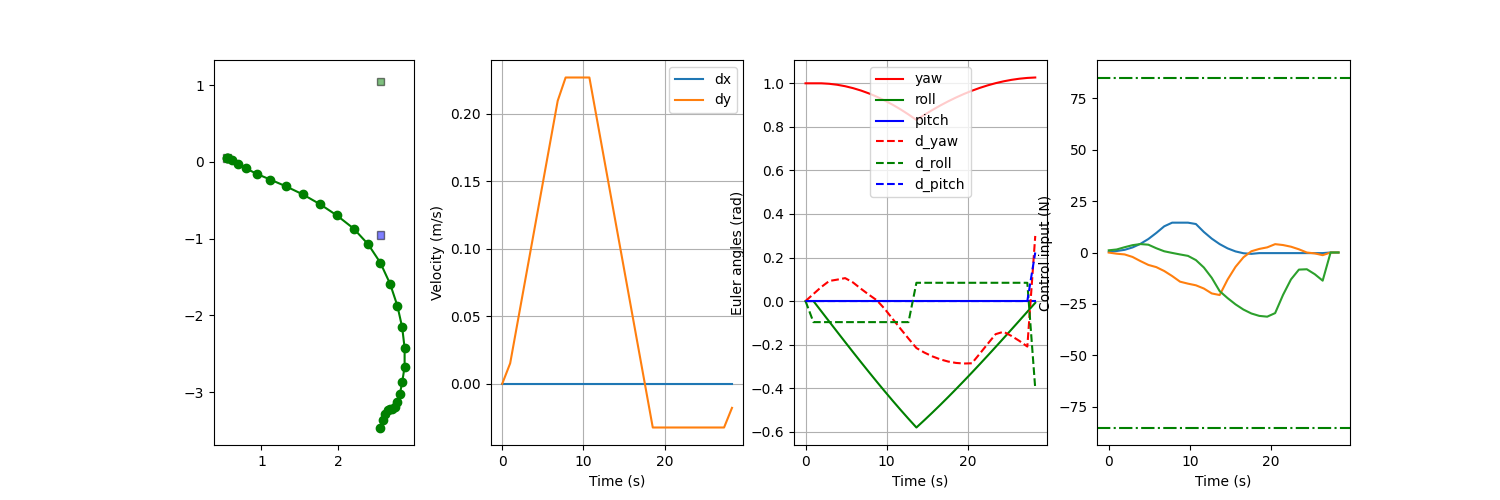
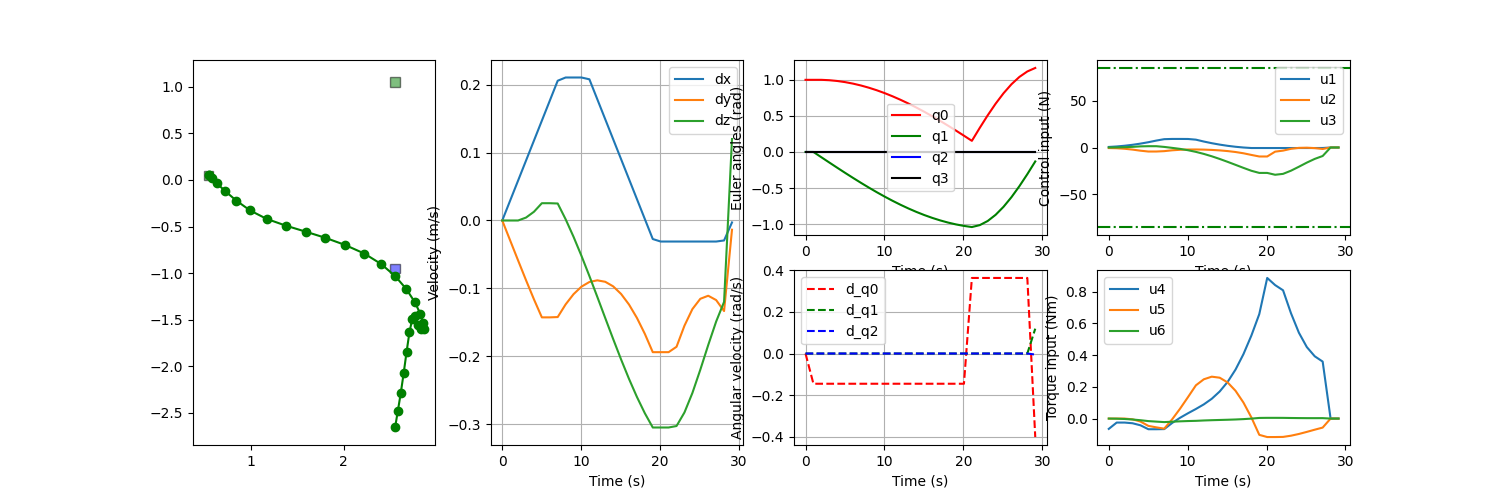
added example to check state equality from linear FF to nonlinear FF

diff --git a/stl_mapping/Utilities/plotting.py b/stl_mapping/Utilities/plotting.py
@@ -1,46 +1,94 @@
 import numpy as np
 import matplotlib.pyplot as plt
+from Utilities.rotations import quat_to_euler_np, euler_to_quat_np
 
-def plot_planning_results(robot, t, x, u, X0, Xf, ROIs, Obs, alpha=1.0,
+def plot_planning_results(robot, t, x, u, 
+                          X0=None, Xf=None, ROIs=None, Obs=None, alpha=1.0,
+                          in_axs = None, plot=True,
                           path="stl_mapping/Planning/figures/sp_trajectory.png"):
+    if x.shape[1] == 12:
+        p, e, v, w = x[:, 0:3], x[:, 3:6], x[:, 6:9], x[:, 9:12]
+        q = np.zeros((x.shape[0], 4))
+        for i in range(x.shape[0]):
+            q[i, :] = euler_to_quat_np(e[i, :], order='zyx')
+        x = np.hstack((p, q, v, w))
+        print(f"Converted state representation:\n{x}")
+    elif x.shape[1] == 13:
+        p, q, v, w = x[:, 0:3], x[:, 3:7], x[:, 7:10], x[:, 10:13]
+    else:
+        raise ValueError("State vector x must have 12 or 13 columns.")
+    
+
     # plot the trajectory
-    fig, axs = plt.subplots(1,4, figsize=(15, 5))
-    axs[0].plot(x[:, 0], x[:, 1], 'g-')
-    axs[0].plot(x[:, 0], x[:, 1], 'go')
-    X0.plot(axs[0], color='green', alpha=0.5)
-    Xf.plot(axs[0], color='green', alpha=0.5)
-    [roi.plot(axs[0], color='blue', alpha=0.5) for roi in ROIs]
-    [obs.plot(axs[0], color='red', alpha=0.5) for obs in Obs]
-    axs[0].set_aspect('equal', adjustable='box')
+    if in_axs is None:
+        fig = plt.figure(figsize=(15, 5))
+        gs = fig.add_gridspec(2,4, figure=fig)
+        ax_p = fig.add_subplot(gs[:,0])
+        ax_v = fig.add_subplot(gs[:,1])
+        ax_q = fig.add_subplot(gs[0,2])
+        ax_w = fig.add_subplot(gs[1,2])
+        ax_f = fig.add_subplot(gs[0,3])
+        ax_t = fig.add_subplot(gs[1,3])
+    else: 
+        ax_p, ax_v, ax_q, ax_w, ax_f, ax_t = in_axs
 
-    axs[1].plot(t, x[:, 6], label='dx')
-    axs[1].plot(t, x[:, 7], label='dy')
-    axs[1].set_xlabel('Time (s)')
-    axs[1].set_ylabel('Velocity (m/s)')
-    axs[1].legend()
-    axs[1].grid()
+    ax_p.plot(p[:, 0], p[:, 1], 'g-')
+    ax_p.plot(p[:, 0], p[:, 1], 'go')
+    if X0 is not None:
+        X0.plot(ax_p, color='green', alpha=0.5)
+    if Xf is not None:
+        Xf.plot(ax_p, color='green', alpha=0.5)
+    if ROIs is not None:
+        [roi.plot(ax_p, color='blue', alpha=0.5) for roi in ROIs]
+    if Obs is not None:
+        [obs.plot(ax_p, color='red', alpha=0.5) for obs in Obs]
+    ax_p.set_aspect('equal', adjustable='box')
 
-    axs[2].plot(t, x[:, 3], 'r', label='yaw')
-    axs[2].plot(t, x[:, 4], 'g', label='roll')
-    axs[2].plot(t, x[:, 5], 'b', label='pitch')
-    axs[2].plot(t, x[:, 9], 'r--', label='d_yaw')
-    axs[2].plot(t, x[:, 10], 'g--', label='d_roll')
-    axs[2].plot(t, x[:, 11], 'b--', label='d_pitch')
-    axs[2].set_xlabel('Time (s)')
-    axs[2].set_ylabel('Euler angles (rad)')
-    axs[2].legend()
-    axs[2].grid()
+    ax_v.plot(t, v[:, 0], label='dx')
+    ax_v.plot(t, v[:, 1], label='dy')
+    ax_v.plot(t, v[:, 2], label='dz')
+    ax_v.set_xlabel('Time (s)')
+    ax_v.set_ylabel('Velocity (m/s)')
+    ax_v.legend()
+    ax_v.grid()
 
-    axs[3].plot(t, u[:,0])
-    axs[3].plot(t, u[:,1])
-    axs[3].plot(t, u[:,2])
-    axs[3].axhline(robot.U.lower_bounds[0], color='g', linestyle='-.', label="U_lb")
-    axs[3].axhline(robot.U.upper_bounds[0], color='g', linestyle='-.')
+    ax_q.plot(t, q[:, 0], 'r', label='q0')
+    ax_q.plot(t, q[:, 1], 'g', label='q1')
+    ax_q.plot(t, q[:, 2], 'b', label='q2')
+    ax_q.plot(t, q[:, 3], 'k', label='q3')
+    ax_q.set_xlabel('Time (s)')
+    ax_q.set_ylabel('Euler angles (rad)')
+    ax_q.legend()
+    ax_q.grid()
+
+    ax_w.plot(t, w[:, 0], 'r--', label='d_q0')
+    ax_w.plot(t, w[:, 1], 'g--', label='d_q1')
+    ax_w.plot(t, w[:, 2], 'b--', label='d_q2')
+    ax_w.set_xlabel('Time (s)')
+    ax_w.set_ylabel('Angular velocity (rad/s)')
+    ax_w.legend()
+    ax_w.grid()
+
+    ax_f.plot(t[:u.shape[0]], u[:,0], label='u1')
+    ax_f.plot(t[:u.shape[0]], u[:,1], label='u2')
+    ax_f.plot(t[:u.shape[0]], u[:,2], label='u3')
+    ax_f.axhline(robot.U.lower_bounds[0], color='g', linestyle='-.')#, label="U_lb")
+    ax_f.axhline(robot.U.upper_bounds[0], color='g', linestyle='-.')
     if hasattr(robot, 'U_effective'):
-        axs[3].axhline(alpha*robot.U_effective.lower_bounds[0], color='b', linestyle='--', label="alpha*U_effective_lb")
-        axs[3].axhline(alpha*robot.U_effective.upper_bounds[0], color='b', linestyle='--')
-        axs[3].axhline(robot.U_effective.lower_bounds[0], color='r', linestyle=':', label="U_effective_lb")
-        axs[3].axhline(robot.U_effective.upper_bounds[0], color='r', linestyle=':')
-    axs[3].set_xlabel('Time (s)')
-    axs[3].set_ylabel('Control input (N)')
-    plt.savefig(path)
+        ax_f.axhline(alpha*robot.U_effective.lower_bounds[0], color='b', linestyle='--')#, label="alpha*U_effective_lb")
+        ax_f.axhline(alpha*robot.U_effective.upper_bounds[0], color='b', linestyle='--')
+        ax_f.axhline(robot.U_effective.lower_bounds[0], color='r', linestyle=':')#, label="U_effective_lb")
+        ax_f.axhline(robot.U_effective.upper_bounds[0], color='r', linestyle=':')
+    ax_f.set_xlabel('Time (s)')
+    ax_f.set_ylabel('Control input (N)')
+    ax_f.legend()
+
+    ax_t.plot(t[:u.shape[0]], u[:,3], label='u4')
+    ax_t.plot(t[:u.shape[0]], u[:,4], label='u5')
+    ax_t.plot(t[:u.shape[0]], u[:,5], label='u6')
+    ax_t.set_xlabel('Time (s)')
+    ax_t.set_ylabel('Torque input (Nm)')
+    ax_t.legend()
+
+    if plot:
+        plt.savefig(path)

diff --git a/stl_mapping/Planning/main.py b/stl_mapping/Planning/main.py
@@ -16,7 +16,7 @@ sys.path.insert(0, parent_dir)
 from Utilities.Robots import FreeFlyer, LinearFreeFlyer6DoF
 from Utilities.sets import HyperRectangle, Polytope
 from Utilities.rotations import quat_to_euler_np, quat_to_euler_cs, euler_to_quat_np, euler_to_quat_cs
-from Utilities.rotations import quat_x_to_euler_x_cs, euler_x_to_quat_x_cs, quat_x_to_euler_x_np, euler_x_to_quat_x_np
+from Utilities.rotations import quat_x_to_euler_x_np, euler_x_to_quat_x_np
 from Utilities.rotations import enu_to_ned, ned_to_enu, u_enu_to_ned, enu_to_flu
 from Utilities.stl import Pred, Spec, quant_parse_operator, OptProbItems
 from Utilities.plotting import plot_planning_results
@@ -46,7 +46,7 @@ World = HyperRectangle(np.array([0, -1.5, -10, -10]), np.array([4, 1.5, 10, 10])
 phi = Pred("AND", preds=[
     Pred("G", [t0,t0], preds=[Pred("MU", preds=[Polytope(X0)], dims=[0,1,2])]),
     Pred("G", [tf,tf], preds=[Pred("MU", preds=[Polytope(Xf)], dims=[0,1,2])]),
-    Pred("F", [t0,tf], preds=[Pred("MU", preds=[Polytope(XA)], dims=[0,1,2,3])]),
+    Pred("F", [t0,tf], preds=[Pred("MU", preds=[Polytope(XA)], dims=[0,1,2, 3])]),
     Pred("G", [t0,tf], preds=[Pred("MU", preds=[Polytope(World)], dims=[0,1,6,7])]),
 ])
 spec = Spec(phi, t0, tf)
@@ -55,19 +55,20 @@ spec = Spec(phi, t0, tf)
 if True:
     opt = gp.Model("prob1")
     x_vars = opt.addMVar((N, sp_robot.n_x), lb=-np.inf, ub=np.inf, name="X")
-    u_vars = opt.addMVar((N, sp_robot.n_u), lb=-np.inf, ub=np.inf, name="U")
+    u_vars = opt.addMVar((N-1, sp_robot.n_u), lb=-np.inf, ub=np.inf, name="U")
     t_sp = np.linspace(0,(N-1)*dt, N)
     alpha_vars = opt.addVar(lb=0, ub=1, name="alpha")
     opt.update()
 
     items = OptProbItems(x_vars, u_vars, t_sp)
 
-    for i in range(N):
+    for i in range(N-1):
         opt.addConstrs((u_vars[i, j] >= alpha_vars*sp_robot.U_effective.lower_bounds[j] for j in range(sp_robot.n_u)))
         opt.addConstrs((u_vars[i, j] <= alpha_vars*sp_robot.U_effective.upper_bounds[j] for j in range(sp_robot.n_u)))
 
     # constraints
-    opt.addConstrs((x_vars[i+1,:] == sp_robot.step(x_vars[i, :], u_vars[i, :], dt) for i in range(N-1)))
+    for i in range(N-1):
+        opt.addConstr(x_vars[i+1,:] == sp_robot.step(x_vars[i, :], u_vars[i, :], dt))
     sp_robot.add_state_constraints(opt, items)
 
     # initial orientation and velocity constraints
@@ -78,11 +79,21 @@ if True:
     quant_parse_operator(opt, spec.phi, items)
 
     cost_var = opt.addVar(lb=-np.inf, ub=np.inf, name="cost")
-    act_abs_var = opt.addMVar((N, sp_robot.n_u))
-    act_int_var = opt.addVar()
-    opt.addConstrs((act_abs_var[i,j] == gp.abs_(u_vars[i,j]) for i in range(N) for j in range(sp_robot.n_u)), name="act_int")
-    opt.addConstr(act_int_var == gp.quicksum([act_abs_var[i,j] for i in range(N) for j in range(sp_robot.n_u)]), name="act_int_sum")
-    opt.addConstr(cost_var == 1*alpha_vars - 10000*spec.phi.rho + 0.0001*act_int_var) # quad_cost
+
+    # # Quadratic actuation cost
+    # act_quadu_vars = opt.addMVar((N-1,))
+    # act_quadu_var = opt.addVar()
+    # opt.addConstrs((act_quadu_vars[i] == u_vars[i,:]@u_vars[i,:] for i in range(N-1)), name="act_int")
+    # opt.addConstr(act_quadu_var == gp.quicksum([act_quadu_vars[i] for i in range(N-1)]), name="act_int_sum")
+
+    # L1 actuation cost
+    act_absu_vars = opt.addMVar((N-1,sp_robot.n_u))
+    act_absu_var = opt.addVar(lb=0, ub=np.inf)
+    opt.addConstrs((act_absu_vars[i, j] == gp.abs_(u_vars[i, j]) for i in range(N-1) for j in range(sp_robot.n_u)), name="act_abs")
+    opt.addConstr(act_absu_var == gp.quicksum([act_absu_vars[i, j] for i in range(N-1) for j in range(sp_robot.n_u)]), name="act_abs_sum")
+
+    # Final cost
+    opt.addConstr(cost_var == 1*alpha_vars - 1000*spec.phi.rho + 0.01*act_absu_var) # quad_cost
     opt.setObjective(cost_var, gp.GRB.MINIMIZE)
     opt.setParam('OutputFlag', 0)  # Suppress Gurobi output
     opt.optimize()
@@ -94,7 +105,7 @@ if True:
         denom = denom.sum(sp_robot.KD)
         print(f"Beta from solving Prob 1: {denom.divide(sp_robot.U)}")
         print(f"Spatial robustness: rho = {spec.phi.rho.X}")
-        print(f"Control integral summed: {act_int_var.X}")
+        # print(f"Control integral summed: {act_quadu_var.X}")
     else:
         print(f"No optimal solution found")
         print(f"Status: {scs[opt.status]}")
@@ -113,11 +124,6 @@ else:
     dt = data['dt']
     t_sp = data['times']
 
-# plot the trajectory
-plot_planning_results(sp_robot, t_sp, x_ff, u_ff, X0, Xf, [XA], Obs, alpha=alpha,
-                      path="stl_mapping/Planning/figures/sp_trajectory.png")
-
-
 #! Convert [p:ENU, e:FLU->ENU, v:ENU, w:FLU] to [p:ENU, q:FLU->ENU, v:ENU, w:FLU]
 x_ff_converted = np.zeros((x_ff.shape[0], x_ff.shape[1] + 1))
 for i in range(x_ff.shape[0]):
@@ -126,6 +132,11 @@ for i in range(x_ff.shape[0]):
     x_ff_converted[i,7:10] = x_ff[i, 6:9]
     x_ff_converted[i,10:13] = x_ff[i, 9:12] #enu_to_flu(x_ff[i, 9:12], x_ff_converted[i, 3:7])
 x_ff = x_ff_converted
+
+# plot the trajectory
+plot_planning_results(sp_robot, t_sp, x_ff, u_ff, X0, Xf, [XA], Obs, alpha=alpha,
+                      path="stl_mapping/Planning/figures/sp_trajectory.png")
+
 
 #TODO: 1. this is a valid conversion (Lin to non-lin) if the system (with zero roll) is differentially flat
 #TODO:    this means that this linear decoupling is valid, and x_ff and u_ff are valid for the nonlinear space robot

diff --git a/stl_mapping/Utilities/rotations.py b/stl_mapping/Utilities/rotations.py
@@ -22,7 +22,6 @@ def q_to_rot_mat_cs(q):
         cs.horzcat(1 - 2 * (qy ** 2 + qz ** 2), 2 * (qx * qy - qw * qz), 2 * (qx * qz + qw * qy)),
         cs.horzcat(2 * (qx * qy + qw * qz), 1 - 2 * (qx ** 2 + qz ** 2), 2 * (qy * qz - qw * qx)),
         cs.horzcat(2 * (qx * qz - qw * qy), 2 * (qy * qz + qw * qx), 1 - 2 * (qx ** 2 + qy ** 2)))
-
     return rot_mat
 
 def q_to_rot_mat_np(q):
@@ -33,8 +32,15 @@ def q_to_rot_mat_np(q):
         [2 * (qx * qy + qw * qz), 1 - 2 * (qx ** 2 + qz ** 2), 2 * (qy * qz - qw * qx)],
         [2 * (qx * qz - qw * qy), 2 * (qy * qz + qw * qx), 1 - 2 * (qx ** 2 + qy ** 2)]
     ])
-
     return rot_mat
+
+def quat_mult(q1, q2):
+    return cs.vertcat(
+            q1[0]*q2[0] - q1[1]*q2[1] - q1[2]*q2[2] - q1[3]*q2[3],
+            q1[0]*q2[1] + q1[1]*q2[0] + q1[2]*q2[3] - q1[3]*q2[2],
+            q1[0]*q2[2] - q1[1]*q2[3] + q1[2]*q2[0] + q1[3]*q2[1],
+            q1[0]*q2[3] + q1[1]*q2[2] - q1[2]*q2[1] + q1[3]*q2[0]
+        )
 
 def v_dot_q(v, q):
     rot_mat = q_to_rot_mat_cs(q)
@@ -107,27 +113,6 @@ def quat_to_euler_np(q,order='zyz'):
     euler = q.as_euler(order, degrees=False)  # returns (
     return euler
 
-def quat_x_to_euler_x_cs(x):
-    # assumes x = [p, q, dp, dq]
-    euler_x = cs.vertcat(
-        x[0:3],                   # position
-        quat_to_euler_cs(x[3:7]),    # euler angles
-        x[7:10],                  # linear velocity
-        x[10:13]                  # angular velocity
-    )
-    return euler_x
-
-def euler_x_to_quat_x_cs(x):
-    # assumes x = [p, q, dp, dq]
-    p, q, dp, dq = x[0:3], x[3:6], x[6:9], x[9:12]
-    quat_x = cs.vertcat(
-        p,                   # position
-        euler_to_quat_cs(q),    # quaternion
-        dp,                  # linear velocity
-        dq                   # angular velocity
-    )
-    return quat_x
-
 def quat_x_to_euler_x_np(x, order='zyz'):
     # assumes x = [p, q, dp, dq]
     euler_x = np.concatenate((
@@ -137,6 +122,7 @@ def quat_x_to_euler_x_np(x, order='zyz'):
         x[10:13]                  # angular velocity
     ))
     return euler_x
+
 
 def euler_x_to_quat_x_np(x,order='zyx'):
     # assumes x = [p, q, dp, dq]

diff --git a/stl_mapping/Utilities/Robots.py b/stl_mapping/Utilities/Robots.py
@@ -4,7 +4,7 @@ import gurobipy as gp
 from Utilities.sets import HyperRectangle, Zonotope
 from Utilities.rotations import skew_symmetric_cs, skew_symmetric_np, q_to_rot_mat_cs, q_to_rot_mat_np
 from Utilities.rotations import euler_to_quat_cs, euler_to_quat_np, quat_to_euler_cs, quat_to_euler_np
-from Utilities.rotations import quat_x_to_euler_x_cs, euler_x_to_quat_x_cs
+from Utilities.rotations import quat_mult
 from Utilities.sets import compute_K
 from Utilities.stl import OptProbItems
 
@@ -41,15 +41,16 @@ class Robot:
         return dx
     
     def step(self, x=None, u=None, dt=0.1)-> np.ndarray:
-        # Update the state using the dynamics
-        if x is not None:
-            self.set_state(x)
-        if u is not None:
-            self.set_control(u)
-        # Calculate the dynamics
-        dx = self.dynamics(u)
-        self.x += dx * dt
-        return self.x
+        # # Update the state using the dynamics
+        # if x is not None:
+        #     self.set_state(x)
+        # if u is not None:
+        #     self.set_control(u)
+        # # Calculate the dynamics
+        # dx = self.dynamics(u)
+        # self.x += dx * dt
+        return x + (self.calculate_fx(x) + self.calculate_gx(x)@u) * dt
+        # return self.x
 
     def add_state_constraints(self, prog:gp.Model, items:OptProbItems):
         # Add constraitns on the state that are fundamental:
@@ -200,7 +201,7 @@ class FreeFlyer(Robot):
                 [
                     cs.blockcat([
                         [v],
-                        [0.5 * skew_symmetric_cs(w) @ q],
+                        [0.5 * quat_mult(q, cs.vertcat(0,w))],
                         [cs.SX.zeros(3,)],
                         [cs.SX(np.linalg.inv(self.inertia)) @ cs.cross(-w, (self.inertia @ w))]
                     ])

diff --git a/stl_mapping/Planning/test_differential_flatness.py b/stl_mapping/Planning/test_differential_flatness.py
@@ -1,0 +1,49 @@
+import numpy as np
+import cvxpy as cp
+import matplotlib.pyplot as plt
+import copy
+from scipy.spatial.transform import Rotation as R
+
+import os
+import sys
+parent_dir = os.path.abspath(os.path.join(os.path.dirname(__file__), '..'))
+sys.path.insert(0, parent_dir)
+from Utilities.beziers import eval_bezier
+from Utilities.Robots import FreeFlyer, LinearFreeFlyer6DoF
+from Utilities.plotting import plot_planning_results
+
+data = np.load('stl_mapping/Planning/solutions/sp_solution_quat.npz')
+
+ff_lin = LinearFreeFlyer6DoF()
+x_lin = data['x_ff']
+u_lin = data['u_ff']
+times = data['times']
+dt = data['dt']
+
+# FreeFlyer is 6dof nonlinear but we plan for a linear system
+# in 5dof (position, orientation with roll=0). Is the resulting
+# trajectory dynamically feasible? is it of equal degree of difficulty?
+ff = FreeFlyer()
+
+x_nl = np.zeros_like(x_lin)
+x_nl[0,:] = x_lin[0,:]
+for i in range(u_lin.shape[0]):
+    # convert u from ENU to body FLU body frame
+    rot = R.from_quat(x_nl[i,3:7],scalar_first=True)
+    u = np.hstack((rot.inv().apply(u_lin[i,0:3]), u_lin[i,3:6]))
+
+    x_nl[i+1,:] = ff.step(x_nl[i,:], u, dt)
+
+print(f"x_nl[0,:]: {x_nl[0,:]}")
+print(f"x_lin[0,:]: {x_lin[0,:]}")
+
+# Plot the results
+fig, axs = plt.subplots(1,4, figsize=(15,5))
+axs = plot_planning_results(ff_lin, times, x_lin, u_lin,
+                      in_axs=None, plot=True,
+                      path="stl_mapping/Planning/figures/test_flatness_lin.png")
+fig, axs = plt.subplots(1,4, figsize=(15,5))
+plot_planning_results(ff, times, x_nl, u_lin,
+                      in_axs=None, plot=True,
+                      path="stl_mapping/Planning/figures/test_flatness_nl.png")
+
